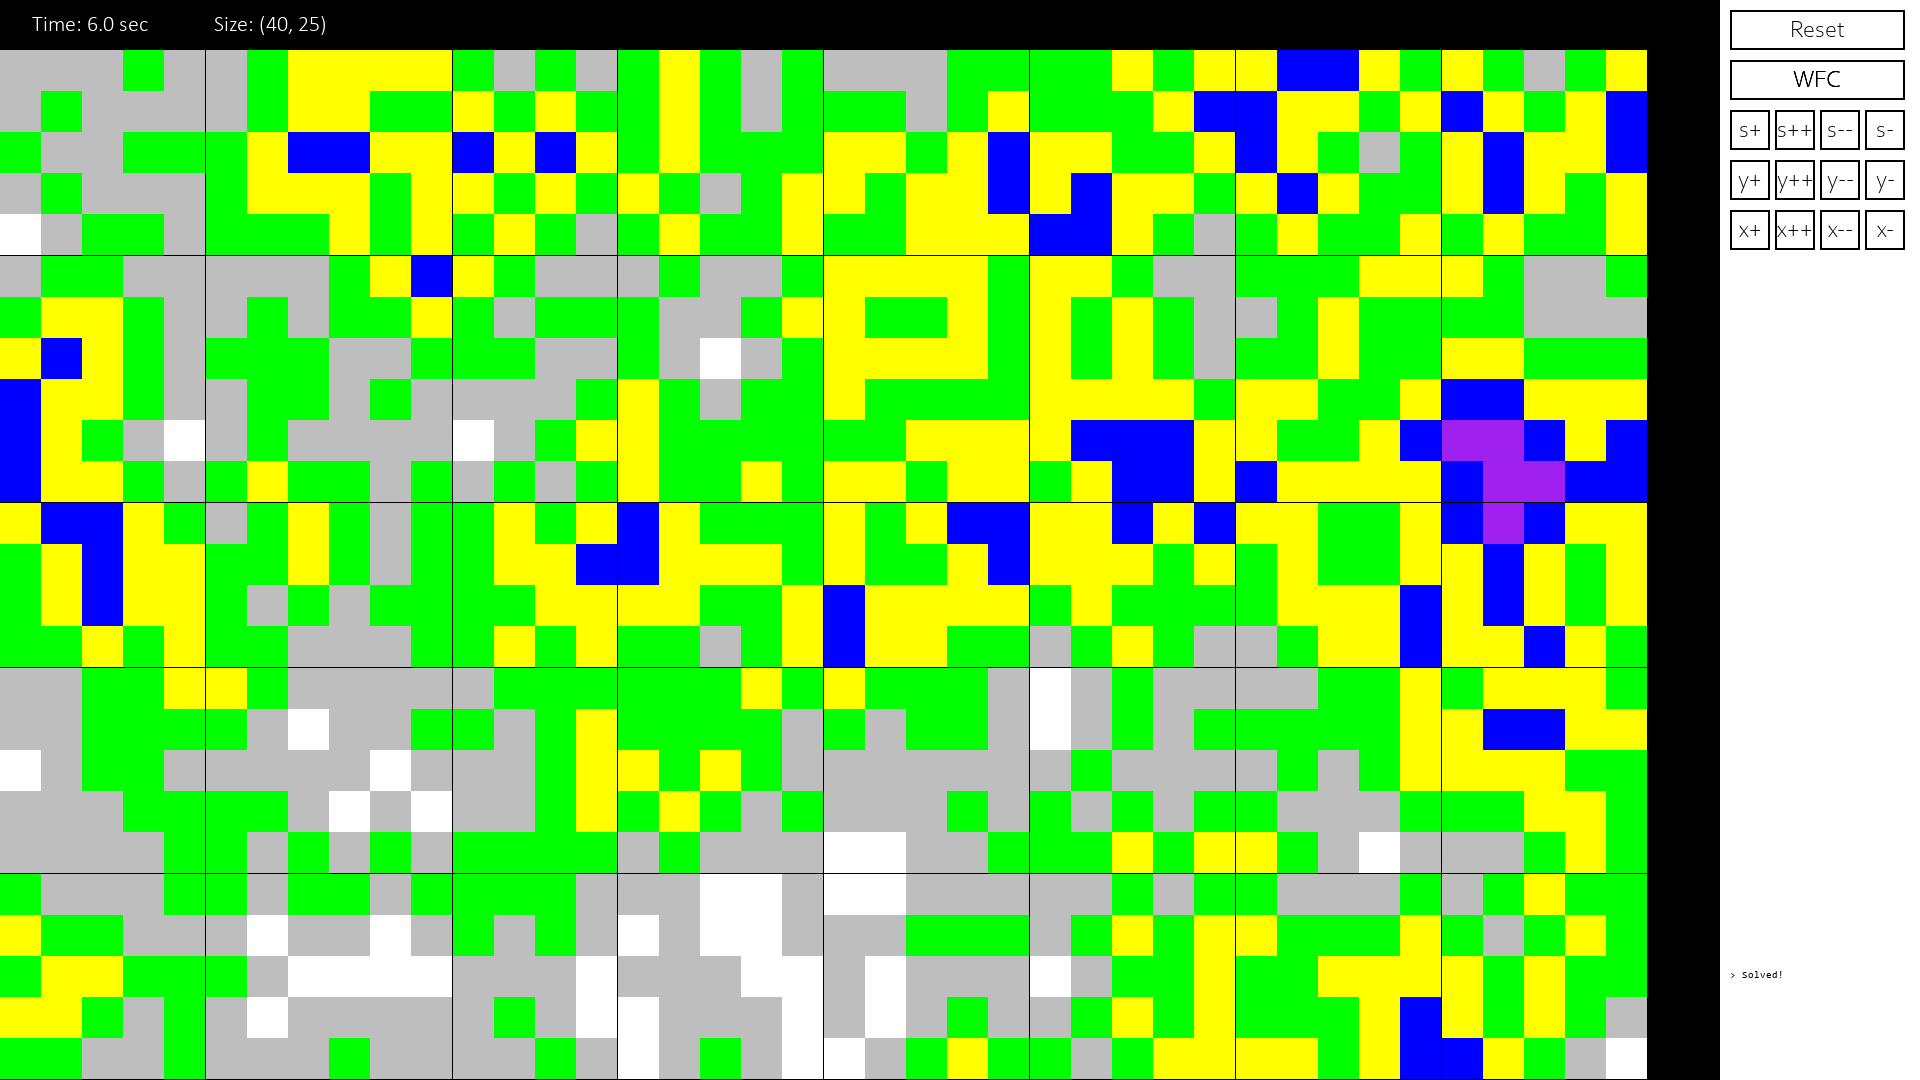
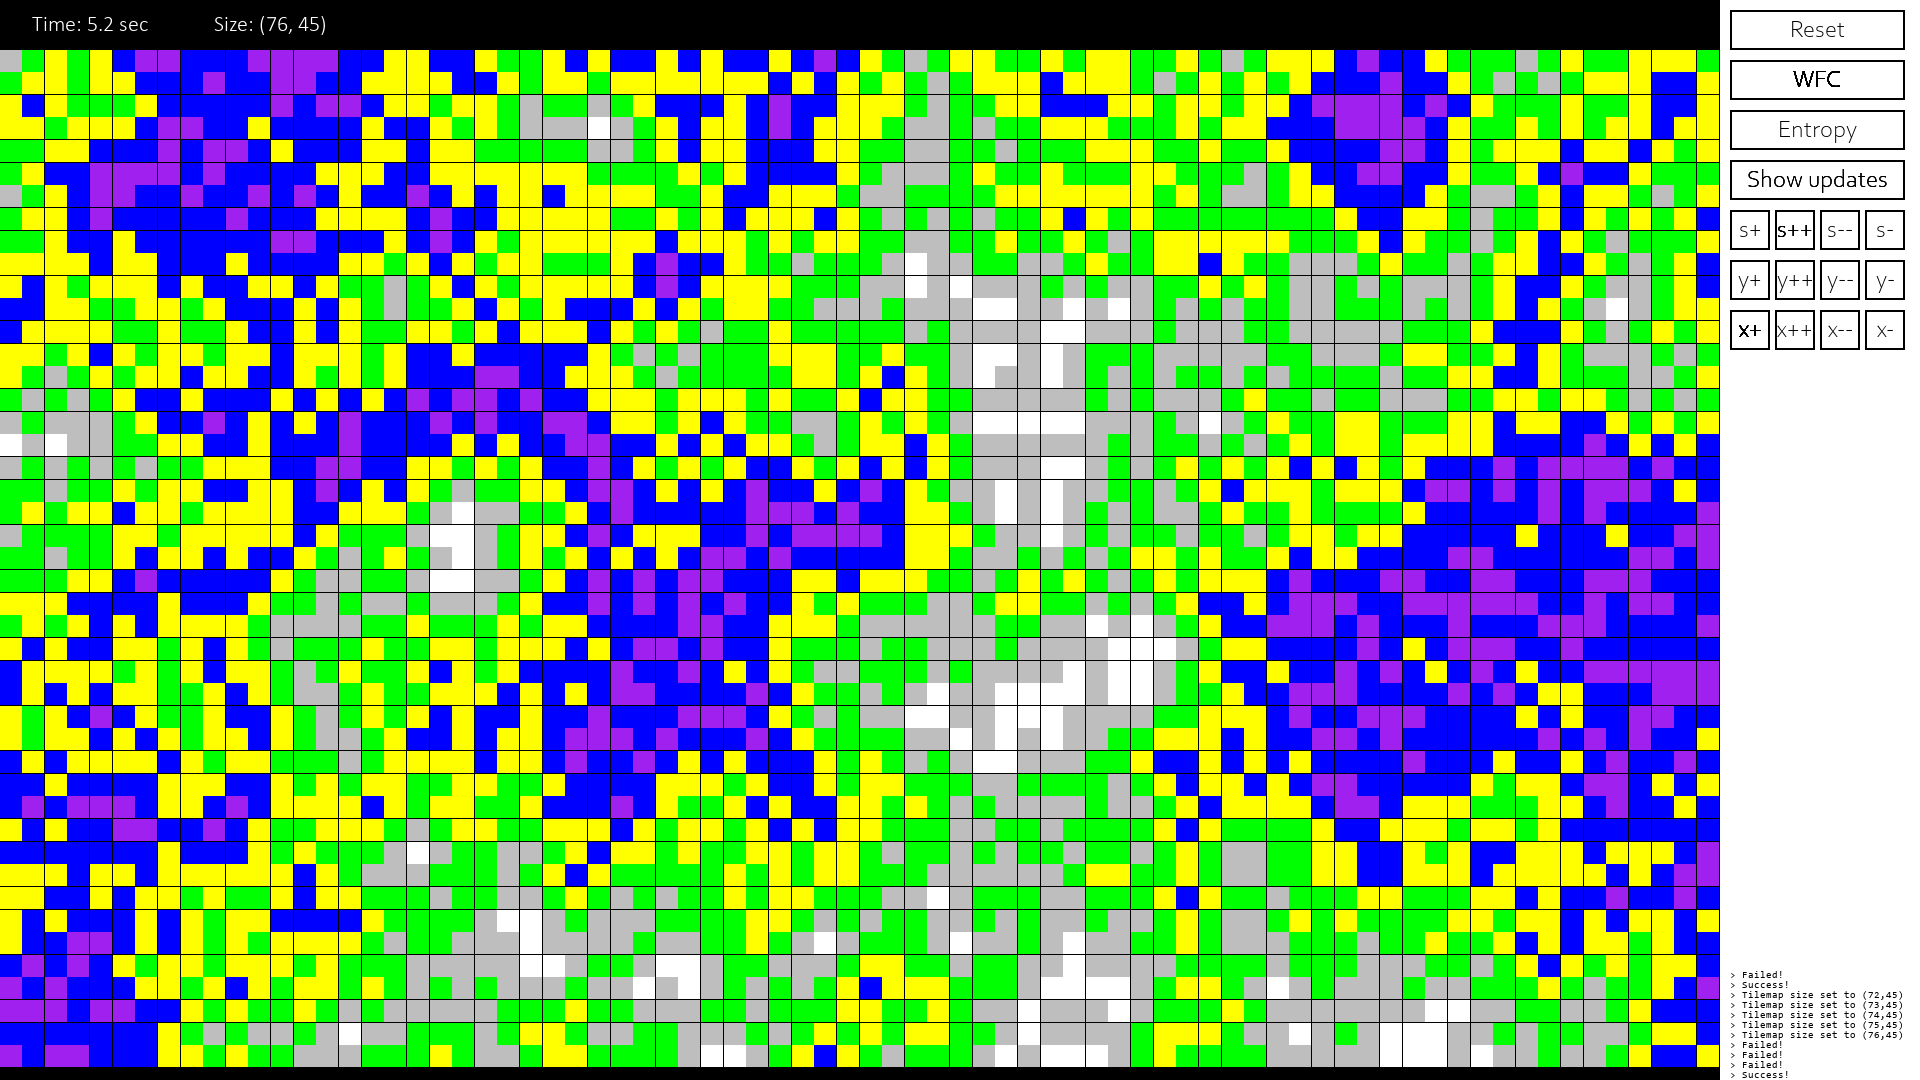
Add entropy and show visuals buttons

diff --git a/WFCPython/src/run.py b/WFCPython/src/run.py
@@ -6,13 +6,14 @@ sys.path.append("../Algorithms/Framework/src")
 
 from Framework.src.controller import Controller
 from Framework.src.button import Button
+from Framework.src.drawable import Drawable
 from WFCAlgorithm import WFCAlgorithm
 from wfcparams import WFCParameters
 from WFCPython.src.UIBoard import UITile, UIBoard, resetTilePositions
 from Map import Map
 
 start_rows = 25
-start_columns = 40
+start_columns = 42
 allowedFails = 10
 
 algorithm: WFCAlgorithm
@@ -29,26 +30,56 @@ def resetBoard(controller: Controller):
     controller.redrawDrawables()
 
 def runAlgorithm(controller: Controller):
+    if not board.showProcess:
+        quickRun(controller)
+        return
     controller.startTimer()
     cellMap = Map(board.columns, board.rows)
     fails = 0
-    drawMap(cellMap)
+    drawMap(cellMap, controller, redraw=True)
     while not cellMap.is_solved() and fails < allowedFails:
         cell = cellMap.find_lowest_entropy_cell()
         cellMap.collapse(cell)
+        drawMap(cellMap, controller)
         if cellMap.hasContradiction:
             cellMap.reset()
             controller.ui.log("Failed!")
             fails += 1
-        drawMap(cellMap, cellMap.hasContradiction)
+            drawMap(cellMap, controller, redraw=True)
     controller.stopTimer()
     if not cellMap.is_solved():
         controller.ui.log("Failed to solve map")
     else:
         controller.ui.log("Solved!")
 
-def drawMap(cellMap: Map, redraw=True):
+def quickRun(controller: Controller):
+    controller.startTimer()
+    cellMap = Map(board.columns, board.rows)
+    cellMap.create_map()
+    controller.stopTimer()
+    if cellMap.is_solved():
+        controller.ui.log("Success!")
+    else:
+        controller.ui.log("Failed!")
+    drawMap(cellMap, controller, redraw=True)
+
+def toggleShowEntropy(controller: Controller):
+    board.showEntropy = not board.showEntropy
+    if board.showEntropy:
+        controller.ui.log("Entropy toggled ON")
+    else:
+        controller.ui.log("Entropy toggled OFF")
+
+def toggleProcess(controller: Controller):
+    board.showProcess = not board.showProcess
+    if board.showProcess:
+        controller.ui.log("Process visuals toggled ON")
+    else:
+        controller.ui.log("Process visuals toggled OFF")
+
+def drawMap(cellMap: Map, controller: Controller, redraw=False):
     tiles = []
+    texts = []
     for row in cellMap.cells:
         tiles.append([])
         for cell in row:
@@ -56,9 +87,19 @@ def drawMap(cellMap: Map, redraw=True):
                 tiles[-1].append(UITile(colour=cell.state.colour))
             else:
                 tiles[-1].append(UITile(colour="black"))
+            if board.showEntropy:  # and cell.collapsed
+                texts.append(str(cell.entropy()))
     board.tiles = tiles
     resetTilePositions(board)
-    controller.setDrawables(board.getDrawables())
+    drawDrawables(controller, redraw, texts)
+
+def drawDrawables(controller: Controller, redraw: bool, texts: list[str]):
+    drawables = board.getDrawables(getAll = redraw or board.showEntropy)
+    if board.showEntropy:
+        for i, text in enumerate(texts):
+            tile = drawables[i]
+            drawables.append(Drawable(tile.position, "text", (tile.size, tile.size), text))
+    controller.setDrawables(drawables)
     if redraw:
         controller.redrawDrawables()
     else:
@@ -132,7 +173,9 @@ sizeButtons = [
 
 buttons = [
     Button(label="Reset", action=resetBoard),
-    Button(label="WFC", action=runAlgorithm)
+    Button(label="WFC", action=runAlgorithm),
+    Button(label="Entropy", action=toggleShowEntropy),
+    Button(label="Show updates", action=toggleProcess),
 ] + sizeButtons
 
 controller = Controller(WFCParameters(), buttons=buttons)

diff --git a/WFCPython/src/UIBoard.py b/WFCPython/src/UIBoard.py
@@ -17,7 +17,7 @@ class UITile:
     size: float
     colour: str
     drawable: any
-    def __init__(self, x=0.0, y=0.0, size=100, colour="white", randomColour=False) -> None:
+    def __init__(self, x=0.0, y=0.0, size=100, colour="black", randomColour=False) -> None:
         self.x = x
         self.y = y
         self.size = size
@@ -34,6 +34,8 @@ class UIBoard:
     tiles: list[list[UITile]]
     rows: int
     columns: int
+    showEntropy = False
+    showProcess = True
 
     def __init__(self, rows, columns, ui) -> None:
         self.width = ui.settings.fieldWidth
@@ -55,11 +57,12 @@ class UIBoard:
         self.tiles = tiles
         resetTilePositions(self)
     
-    def getDrawables(self):
+    def getDrawables(self, getAll=False):
         drawables = []
         for row in self.tiles:
             for tile in row:
-                drawables.append(tile.drawable)
+                if tile.colour != "black" or getAll:
+                    drawables.append(tile.drawable)
         return drawables
 
 

diff --git a/Framework/src/ui.py b/Framework/src/ui.py
@@ -55,6 +55,12 @@ class UI():
         pos, size = button.position, button.size
         pygame.draw.rect(self.screen, colour, pygame.Rect(pos[0], pos[1], size[0], size[1]), button.borderSize)
 
+    def drawText(self, position, size, textString, fontSize=12, fontColour="white"):
+        font = pygame.font.SysFont(self.settings.font, fontSize)
+        text = font.render(textString, True, fontColour)
+        text_rect = text.get_rect(center=(position[0]+size[0]/2, position[1]+size[1]/2))
+        self.screen.blit(text, text_rect)
+
     def drawTopText(self, textString, slot):
         if slot >= self.settings.fieldWidth // self.settings.topbarWidth:
             self.log("Top bar slot out of scope!", warning=True)

diff --git a/Framework/src/drawable.py b/Framework/src/drawable.py
@@ -12,5 +12,7 @@ class Drawable():
             ui.drawDot(self.position)
         elif self.drawType == "tile":
             ui.drawTile(self.position, self.size, self.value)
+        elif self.drawType == "text":
+            ui.drawText(self.position, self.size, self.value)
         else:
             self.log(f'Unrecognized drawtype "{self.drawType}"', warning=True)

diff --git a/WFCPython/TODO.md b/WFCPython/TODO.md
@@ -3,6 +3,8 @@
 - [x] Optimize visual loading GUI
 - [x] Add timer and size text
 - [x] Add differing x and y dimensions
+- [x] Add entropy button and quickrun button
+- [ ] Implement more efficient entropy calculation and/or storage
 - [ ] Remember maps
 - [ ] Add togglable colours
 - [ ] Merge different cell types
